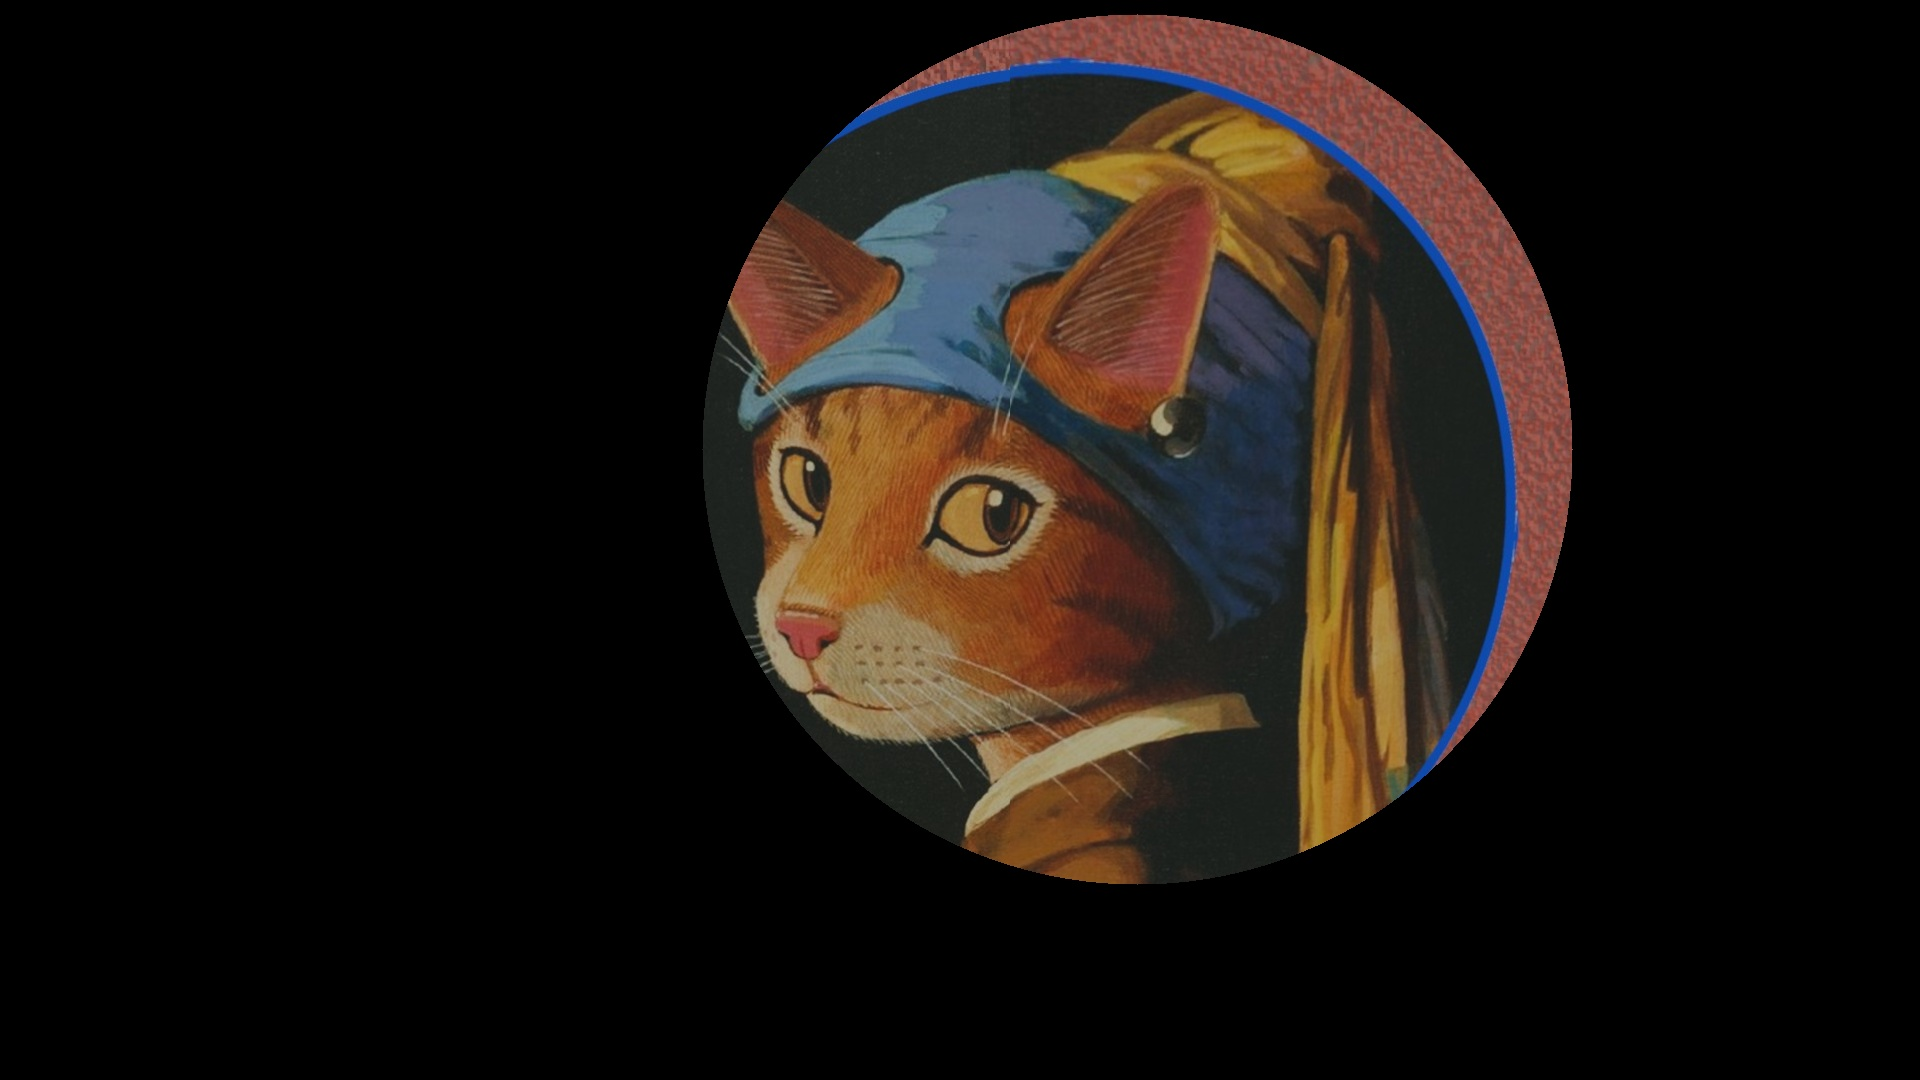
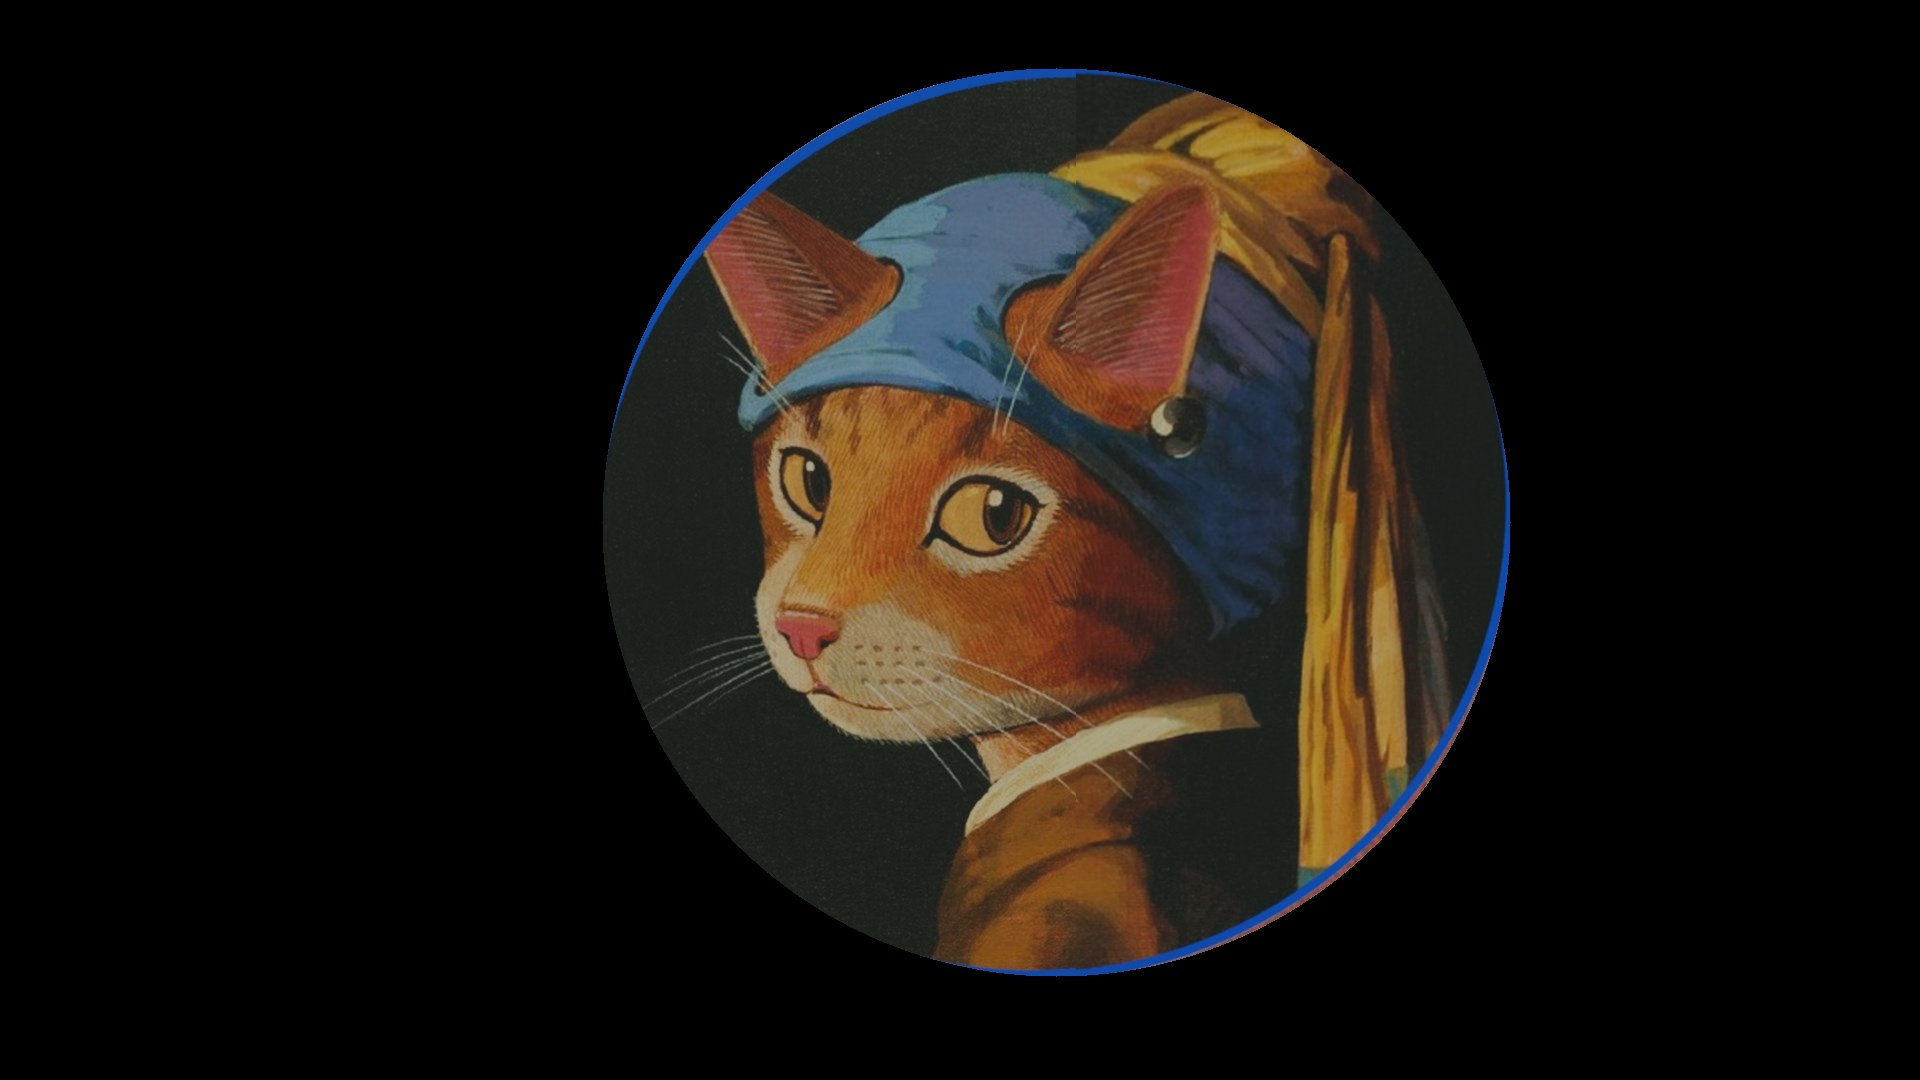
boah es klappt endlich. der kreis wird jetzt anhand der punkte in image2 gebildet was es deutlich besser macht

diff --git a/homework2.py b/homework2.py
@@ -53,34 +53,61 @@ warped = cv2.warpPerspective(img1, H, (w, h))
 
 show(warped, "Warped Image")
 
-
 # -----------------------------
-# 5. Mask both images to the circle
+# 5. Fit circle from points (BEST SOLUTION)
 # -----------------------------
-center = (w // 2, h // 2)
-radius = min(center[0], center[1])
 
+# Punkte extrahieren
+x = pts_img2[:, 0]
+y = pts_img2[:, 1]
+
+# Kreis-Fit (Least Squares)
+A = np.c_[2*x, 2*y, np.ones(len(x))]
+b = x**2 + y**2
+
+c, residuals, rank, s = np.linalg.lstsq(A, b, rcond=None)
+
+cx, cy, c0 = c
+center = (int(cx), int(cy))
+radius = int(np.sqrt(c0 + cx**2 + cy**2))
+
+print(f"Circle from points: center={center}, radius={radius}")
+
+# Maske
 circle_mask = np.zeros((h, w), dtype=np.uint8)
 cv2.circle(circle_mask, center, radius, 255, -1)
 
+# Debug
+debug = img2.copy()
+cv2.circle(debug, center, radius, (0,255,0), 2)
+show(debug, "Fitted Circle")
+# -----------------------------
+# 5.5 Apply circle mask to both images (FIX)
+# -----------------------------
 masked_img2 = cv2.bitwise_and(img2, img2, mask=circle_mask)
 masked_warped = cv2.bitwise_and(warped, warped, mask=circle_mask)
 
 show(masked_img2, "Masked Image 2")
-show(masked_warped, "Masked Warped Image 1")
-
+show(masked_warped, "Masked Warped Image")
 
 # -----------------------------
-# 6. Combine the two halves to eliminate people
+# 6. Combine (vectorized version)
 # -----------------------------
-# Split a bit to the right of the half (adjust offset as needed)
-offset = 50
-x_split = w // 2 + offset
-
 combined = masked_img2.copy()
-combined[:, x_split:] = masked_warped[:, x_split:]
 
-show(combined, "Combined Halves")
+offset = 20
+x_split = center[0] + offset
+
+# Maske für rechte Seite
+right_mask = np.zeros_like(circle_mask)
+right_mask[:, x_split:] = 255
+
+# Nur innerhalb Kreis UND rechts ersetzen
+mask_final = cv2.bitwise_and(circle_mask, right_mask)
+
+combined[mask_final == 255] = masked_warped[mask_final == 255]
+
+show(combined, "Combined Halves (vectorized)")
 
 final = combined
 
